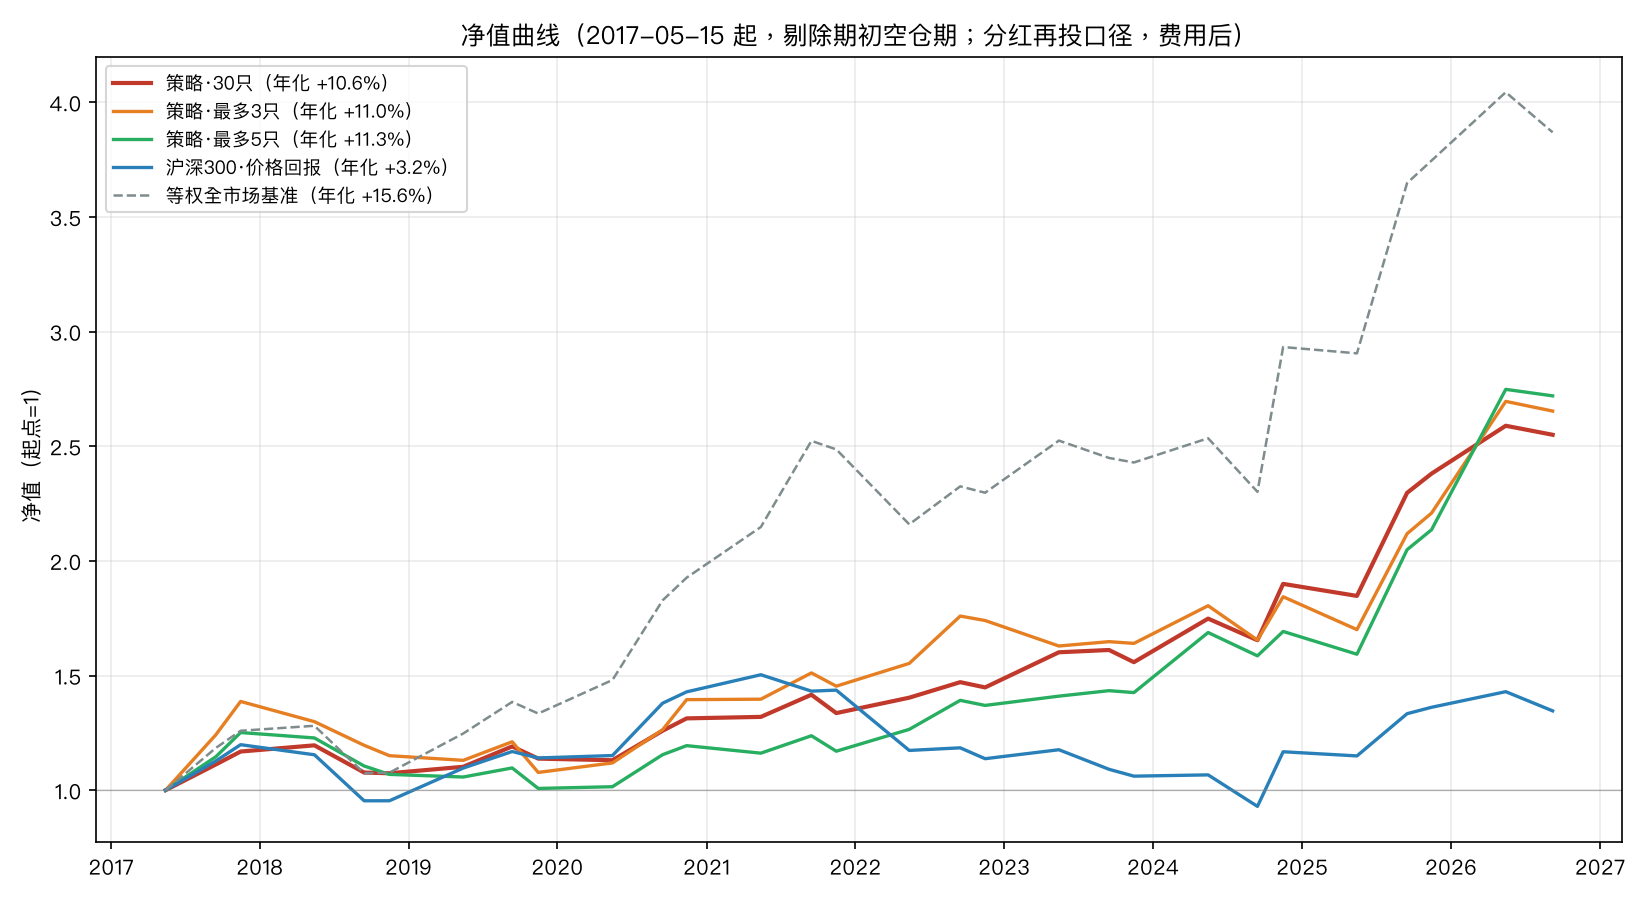
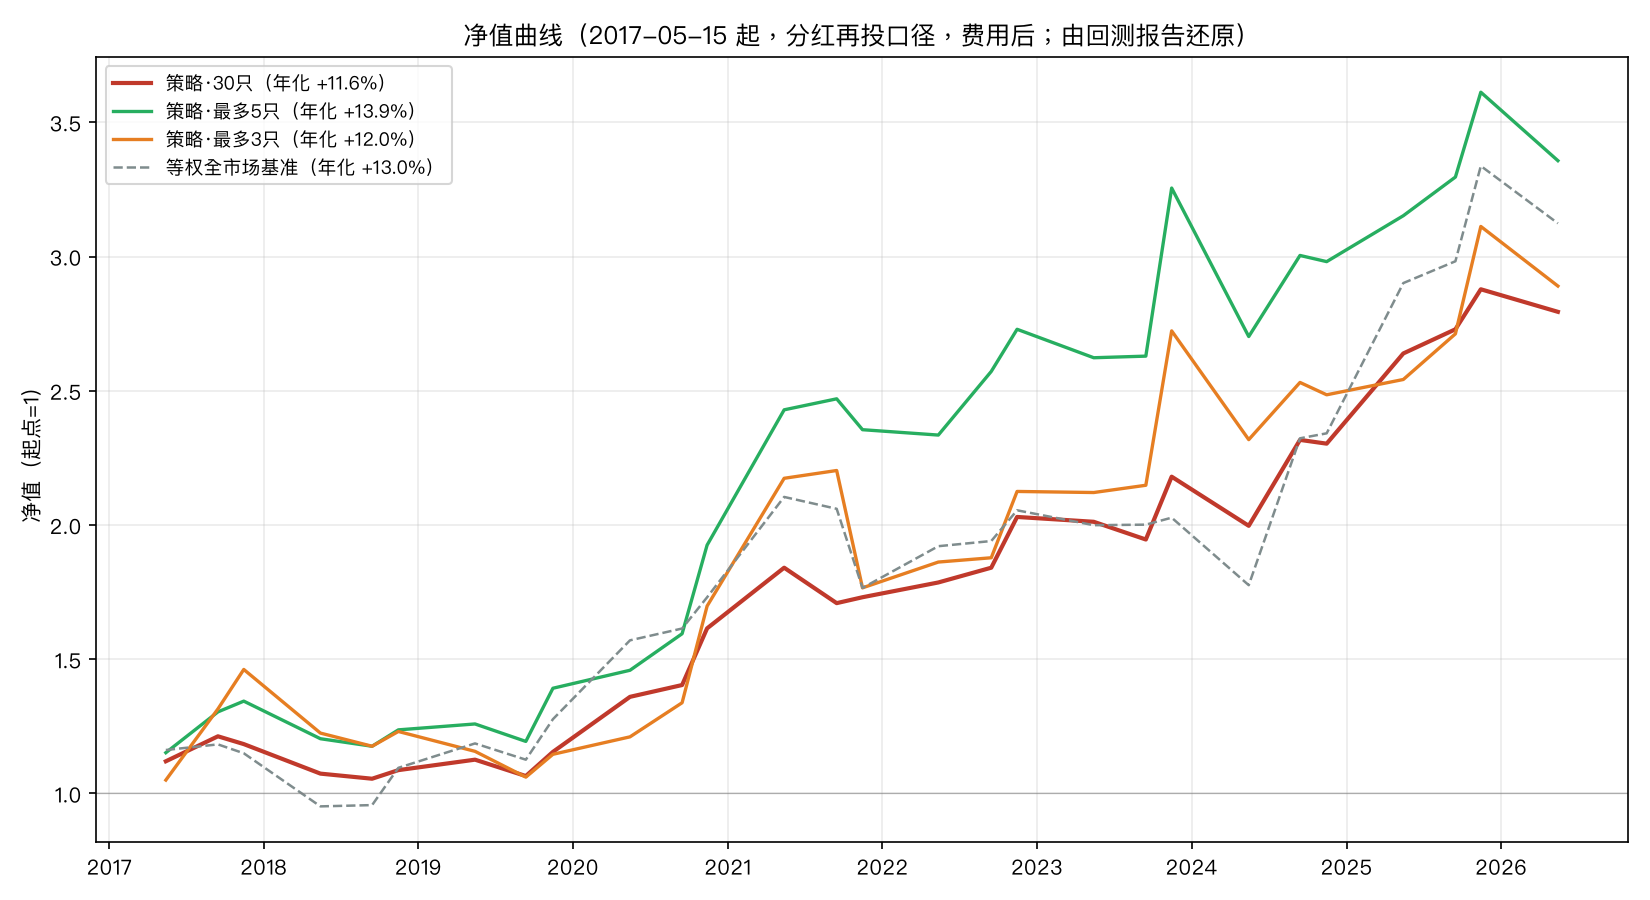
feat(chart): 净值曲线改为从回测报告还原，绕开长回测被杀
regen_charts.py 在单进程内串行跑 4 次回测（30/5/3/等权），宇宙扩容到 780 只后
单次约 10-15min，串行 ~40min，实测 4 个进程全部撞上本环境「约 20 分钟硬杀」，
缓存为空、图未生成。

regen_nav_curve.py 新增 --from-reports：直接解析回测报告每期标题里的
「组合收益 / 基准 / 累计净值」还原曲线，秒级完成。校验期末净值与报告
区间总收益一致（Top30 2.794/+179.4%、Top5 3.357/+235.7%、Top3 2.890/+189.0%）。

保留 --dump/--plot 两阶段多进程路径，用于需要原始 nav 序列的场景。

diff --git a/tests/regen_nav_curve.py b/tests/regen_nav_curve.py
@@ -114,10 +114,75 @@ def plot() -> None:
     print("→ out/nav-curve.png（已重生成）")
 
 
+def plot_from_reports(asof: str = "2026-09-07") -> None:
+    """直接从已生成的回测报告解析净值，不再重跑回测。
+
+    为什么需要这条路径：`--dump` 要跑 4 次回测（各 ~10-15min），在本环境
+    「约 20 分钟硬杀长进程」下实测全部被杀、缓存为空。而回测报告的每期标题里
+    已经带了「组合收益 / 基准 / 累计净值」，足以还原曲线 —— 秒级完成。
+
+    报告格式：`## 第 N 期：YYYY-MM-DD（组合收益 ±x%，基准 ±y%，超额 ±z%，累计净值 1.xxx）`
+    """
+    import re
+    import pandas as pd
+
+    pat = re.compile(
+        r"## 第 \d+ 期：(\d{4}-\d{2}-\d{2})（组合收益 ([+-][\d.]+)%，"
+        r"基准 ([+-][\d.]+)%，超额 ([+-][\d.]+)%，累计净值 ([\d.]+)）"
+    )
+    series, bench_nav = {}, None
+    for key, fname in (("30", "top30"), ("5", "top5"), ("3", "top3")):
+        path = OUT / f"回测报告-{fname}-{asof}.md"
+        if not path.exists():
+            print(f"[warn] 缺 {path.name}，跳过")
+            continue
+        rows = pat.findall(path.read_text(encoding="utf-8"))
+        if not rows:
+            print(f"[warn] {path.name} 未解析到期数据，跳过")
+            continue
+        dates = pd.to_datetime([r[0] for r in rows])
+        strat = pd.Series([float(r[4]) for r in rows], index=dates)
+        bret = pd.Series([float(r[2]) / 100.0 for r in rows], index=dates)
+        series[key] = strat
+        if bench_nav is None:  # 等权基准三份报告一致，取第一份即可
+            bench_nav = (1 + bret).cumprod()
+    if not series:
+        print("[error] 无可用报告")
+        sys.exit(1)
+
+    fig, ax = plt.subplots(figsize=(11, 6))
+    colors = {"30": "#c0392b", "5": "#27ae60", "3": "#e67e22"}
+    names = {"30": "策略·30只", "5": "策略·最多5只", "3": "策略·最多3只"}
+    for key in ("30", "5", "3"):
+        if key not in series:
+            continue
+        s = series[key]
+        cagr = (s.iloc[-1] ** (1 / (len(s) / 3)) - 1) if len(s) else float("nan")
+        ax.plot(s.index, s.values, lw=2.0 if key == "30" else 1.6,
+                color=colors[key], label=f"{names[key]}（年化 {cagr:+.1%}）")
+    if bench_nav is not None:
+        bcagr = bench_nav.iloc[-1] ** (1 / (len(bench_nav) / 3)) - 1
+        ax.plot(bench_nav.index, bench_nav.values, lw=1.2, ls="--", color="#7f8c8d",
+                label=f"等权全市场基准（年化 {bcagr:+.1%}）")
+    ax.axhline(1.0, color="gray", lw=0.6, alpha=0.6)
+    ax.set_title(f"净值曲线（{series[list(series)[0]].index[0].date()} 起，"
+                 f"分红再投口径，费用后；由回测报告还原）", fontsize=12)
+    ax.set_ylabel("净值（起点=1）")
+    ax.legend(loc="upper left", fontsize=9)
+    ax.grid(alpha=0.25)
+    fig.tight_layout()
+    OUT.mkdir(exist_ok=True)
+    fig.savefig(OUT / "nav-curve.png", dpi=150)
+    plt.close(fig)
+    print(f"→ out/nav-curve.png（由 {len(series)} 份回测报告还原，{len(series[list(series)[0]])} 期）")
+
+
 if __name__ == "__main__":
     CACHE.mkdir(parents=True, exist_ok=True)
     if "--plot" in sys.argv:
         plot()
+    elif "--from-reports" in sys.argv:
+        plot_from_reports()
     elif "--dump" in sys.argv:
         dump(sys.argv[sys.argv.index("--dump") + 1])
     else:
